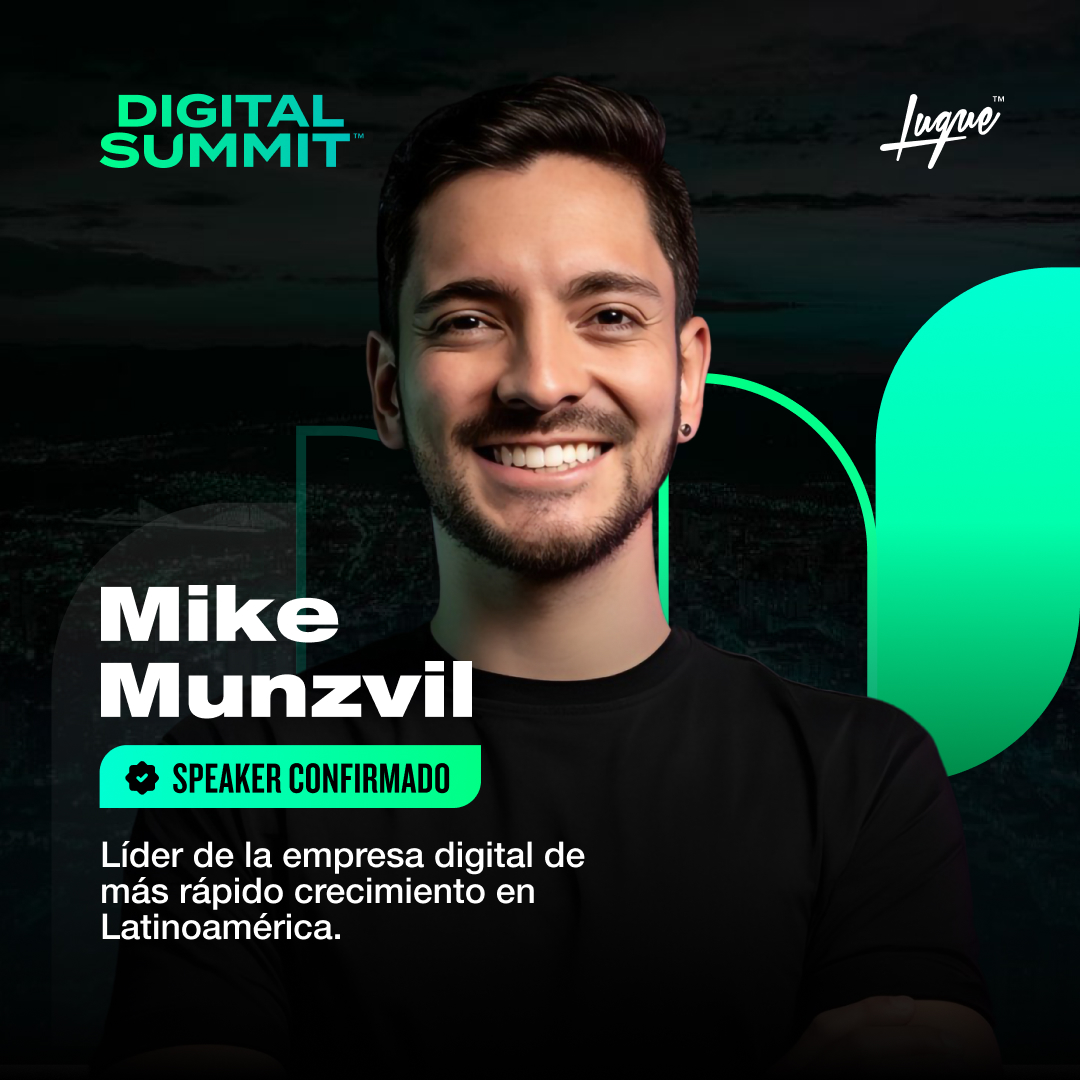
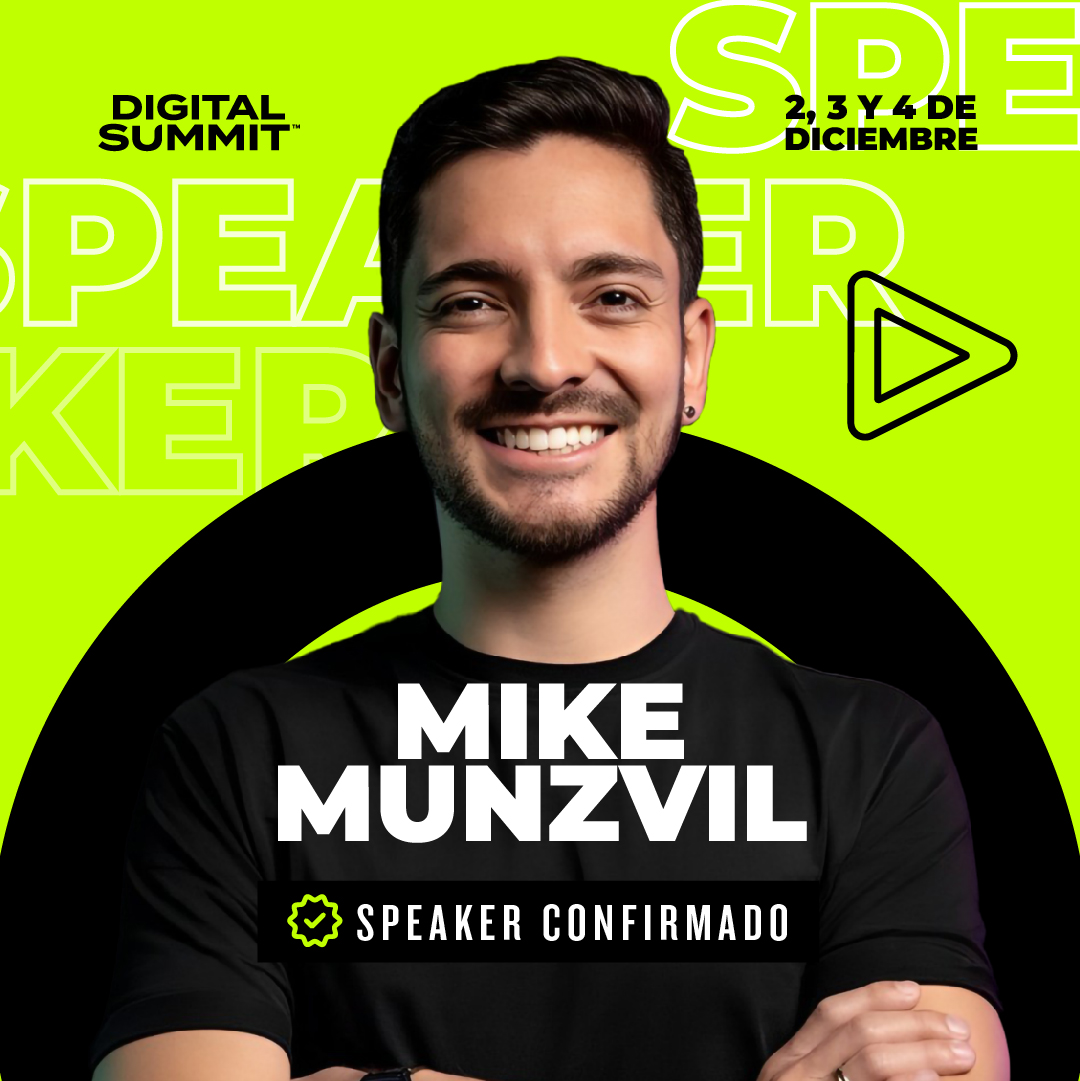
upd

diff --git a/DS2/speakers/speakers.html b/DS2/speakers/speakers.html
@@ -22,7 +22,7 @@
     <div class="card">
       <div class="carousel">
         <img src="Mike.jpg" alt="Mike" class="carousel-image active">
-        <img src="Alvaro.jpg" alt="Mike Info" class="carousel-image">
+        <img src="Mikeinfo.jpg" alt="Mike Info" class="carousel-image">
         <button class="prev-btn" onclick="prevSlide(this)">&#10094;</button>
         <button class="next-btn" onclick="nextSlide(this)">&#10095;</button>
       </div>
@@ -52,7 +52,7 @@
     <div class="card">
       <div class="carousel">
         <img src="Gerardo.jpg" alt="Gerardo" class="carousel-image active">
-        <img src="Alvaro.jpg" alt="Gerardo Info" class="carousel-image">
+        <img src="Gerardoinfo.jpg" alt="Gerardo Info" class="carousel-image">
         <button class="prev-btn" onclick="prevSlide(this)">&#10094;</button>
         <button class="next-btn" onclick="nextSlide(this)">&#10095;</button>
       </div>

diff --git a/DS2/info/Style.css b/DS2/info/Style.css
@@ -430,7 +430,7 @@ h2 {
     }
 
     .recomendacion h3 {
-        font-size: 1.1em;
+        font-size: 1em;
     }
 
     .recomendacion p {
